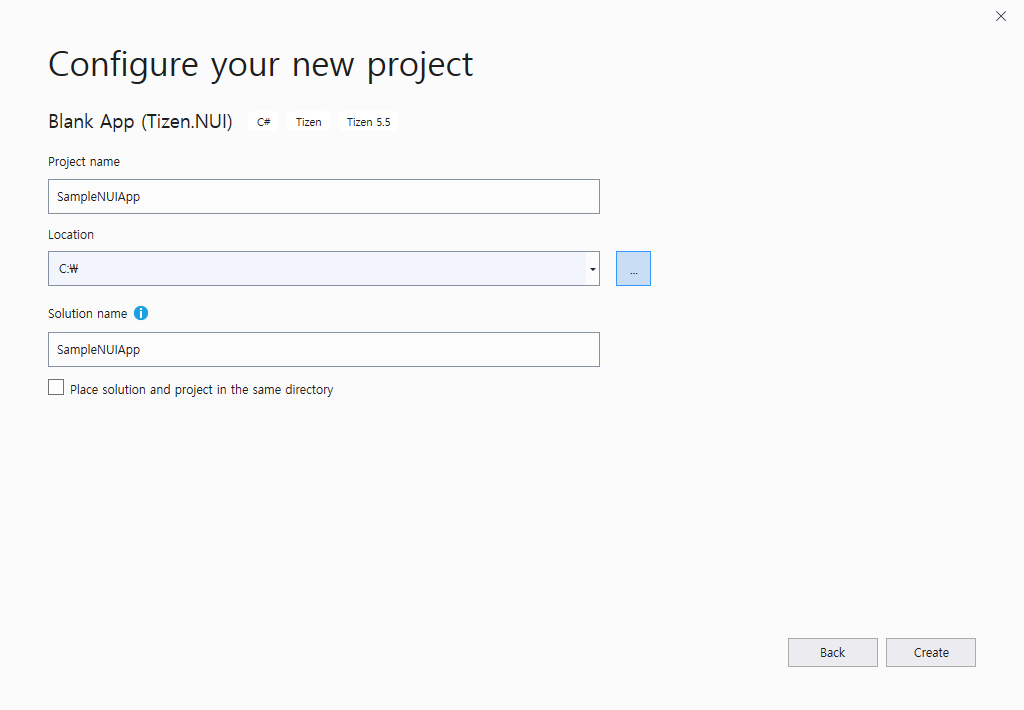
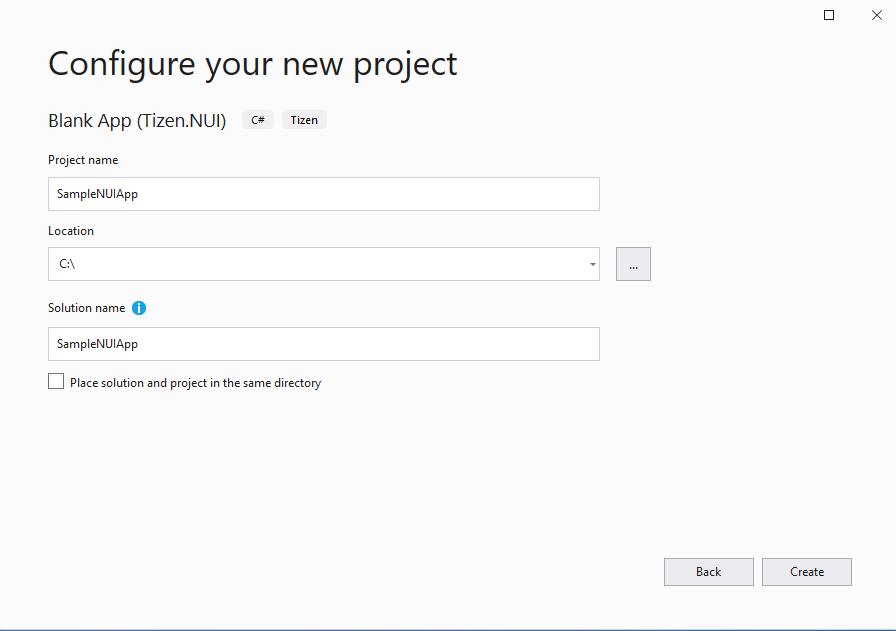
[NUI][Start] Update nui quickstart guide

diff --git a/docs/application/dotnet/get-started/nui/quickstart.md b/docs/application/dotnet/get-started/nui/quickstart.md
@@ -34,6 +34,10 @@ To create a Tizen NUI application, follow these steps:
 
     ![nui_setting_image_1](./media/tizen_project_wizard_capture_template1_2.png)
 
+5.  Select **Platform Version** and click **OK**:
+
+    ![nui_setting_image_1](./media/tizen_project_wizard_capture_template1_3.png)
+
     The following figure illustrates a new project `SampleNUIApp` in the **Solution Explorer** view:
 
     ![nui_setting_image_2](./media/tizen_project_wizard_capture_template2.png)
@@ -269,7 +273,7 @@ You can add your code in **SampleNUIApp.cs** file, as follows:
 
     1.  Copy the application .tpk file from the project binary path to the SDB tool path:
 
-        - The `SampleNUIApp` tpk file(`org.tizen.example.SampleNUIApp-1.0.0.tpk`) is located in `<ProjectPath>\SampleNUIApp\SampleNUIApp\bin\Debug\tizen50`.
+        - The `SampleNUIApp` tpk file(`org.tizen.example.SampleNUIApp-1.0.0.tpk`) is located in `<ProjectPath>\SampleNUIApp\SampleNUIApp\bin\Debug\tizen{version}`.
 
         - To locate the project path in the Solution Explorer view, right-click the solution name and click **Open Folder in File Explorer**.
 
